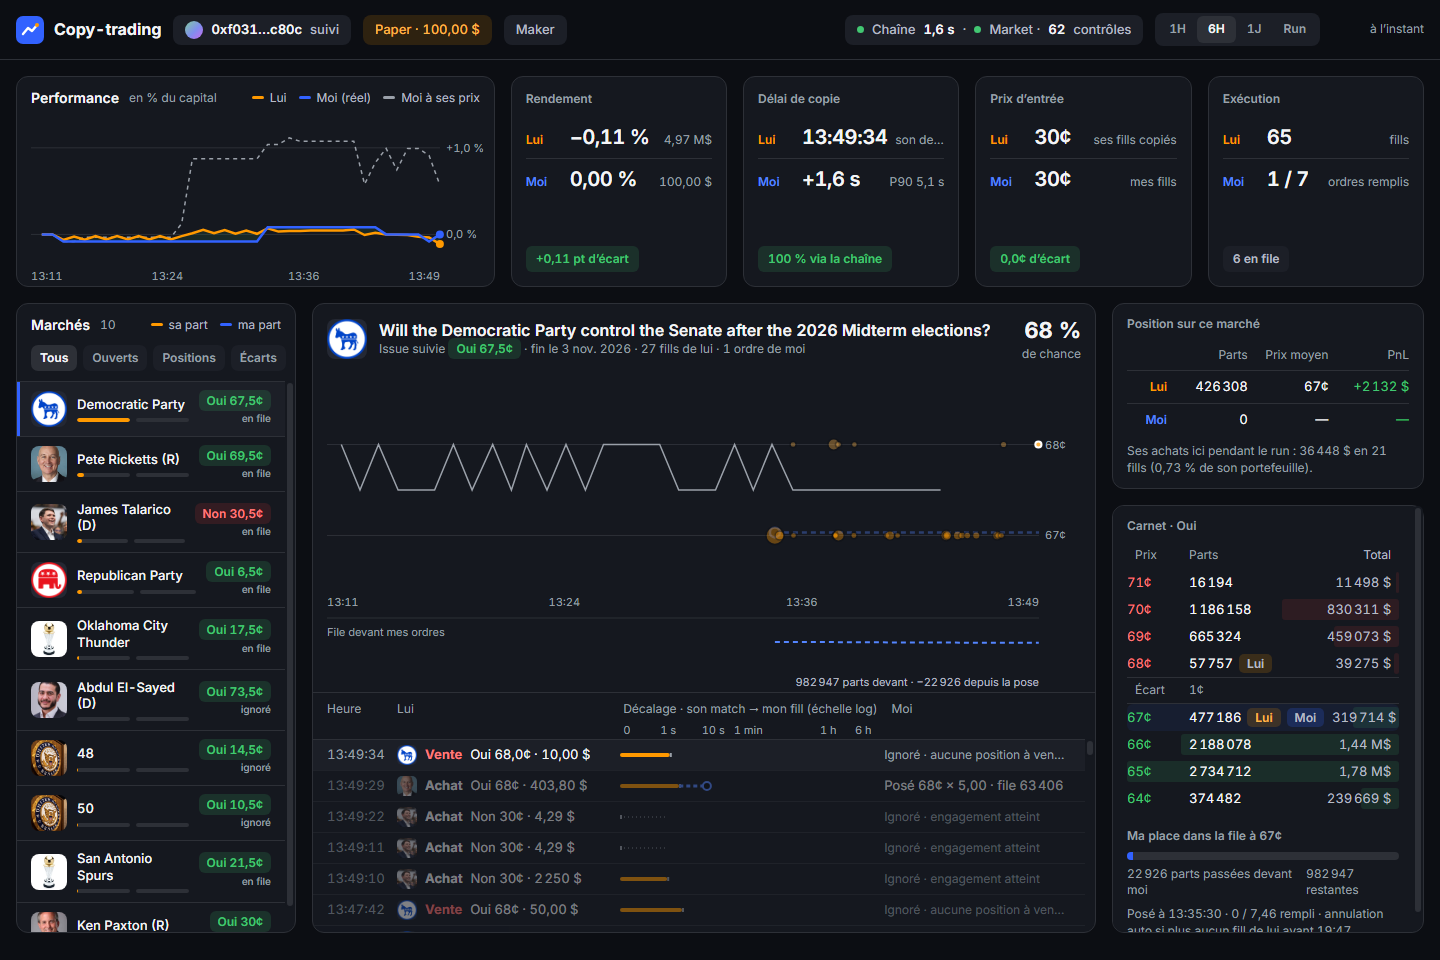
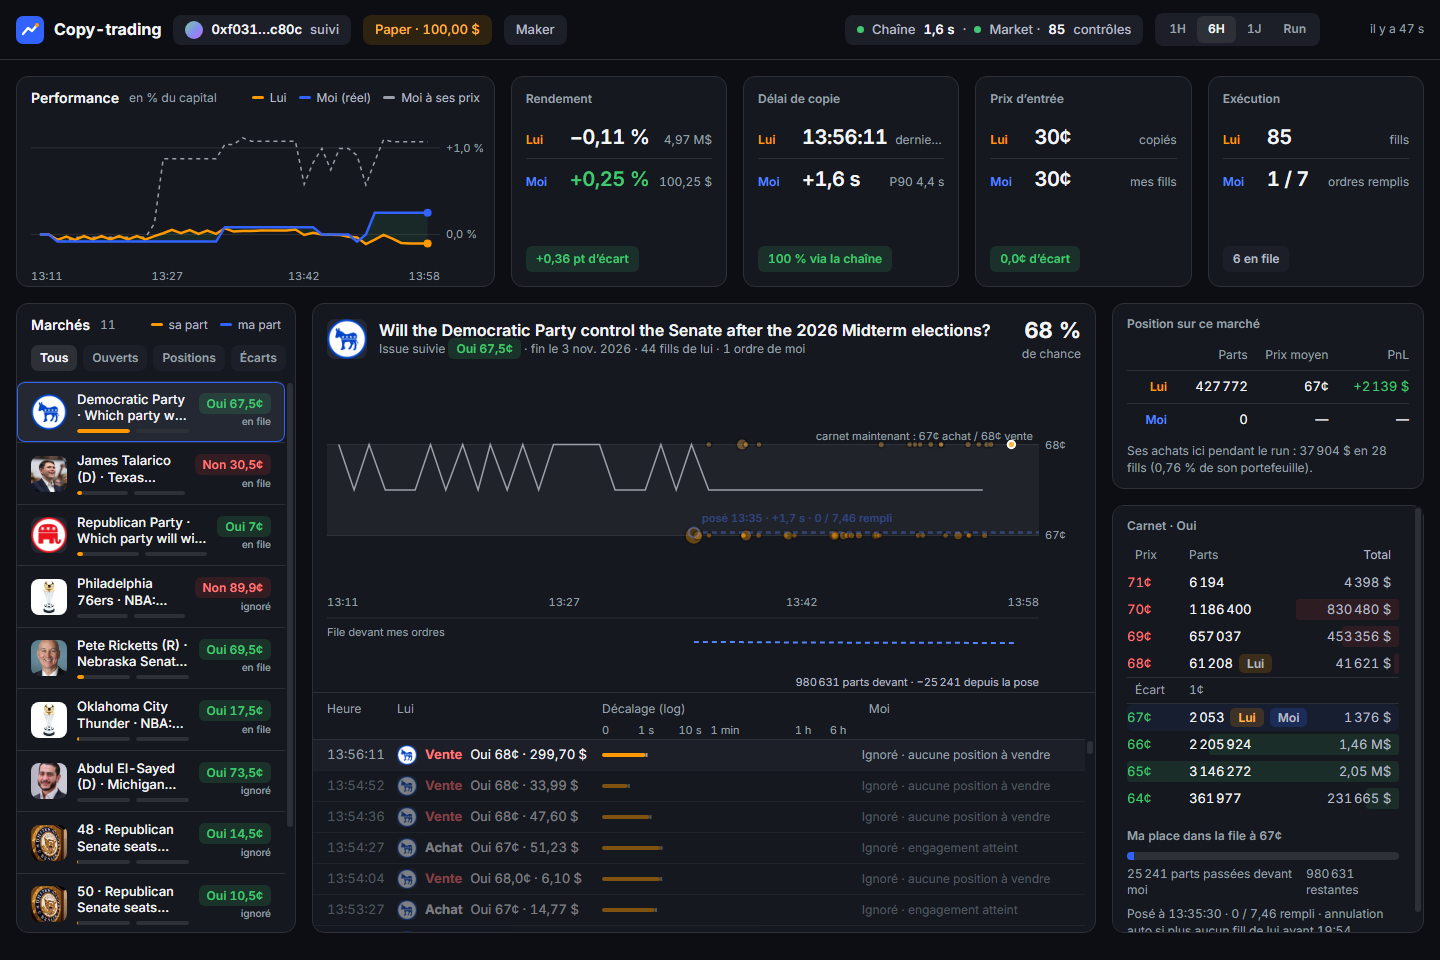
copy-trading : UI, correctifs de la revue (rendu à la minute et suspendu pendant un clic, focus clavier, fills taker, bande du carnet, annotation de l'ordre, titres d'événement, données périmées, sélection, colonnes)

diff --git a/copy-trading/ui/app.js b/copy-trading/ui/app.js
@@ -39,13 +39,16 @@ function put(id, html) { if (last.get(id) !== html) { last.set(id, html); $(id).
 
 function render() {
   queued = false;
-  const t = now(), from = windowStart(M, UI.range, t);
+  // un clic en cours ne doit pas voir sa cible remplacée : on attend le relâchement
+  if (UI.pressing) return;
+  // les échelles avancent à la minute : un panneau n'est redessiné que si ses données changent
+  const live = now(), t = Math.ceil(live / 60e3) * 60e3, from = windowStart(M, UI.range, t);
   const mks = markets(M);
   if (!UI.pinned || !mks.some((k) => k.token === UI.token)) {
     // sans choix de l'opérateur, on suit le dernier marché où j'ai un ordre, sinon son dernier trade
     UI.token = (mks.find((k) => k.orders.length) || mks[0])?.token ?? null;
   }
-  nav(t);
+  nav(live);
   perf(from, t);
   topTiles(from, t);
   list(mks);
@@ -65,11 +68,13 @@ function nav(t) {
     : M.trades.some((x) => x.orderId != null) ? 'Maker' : M.trades.some((x) => x.fillShares != null) ? 'Taker' : 'Stratégie —';
   const fd = (name, label) => {
     const f = M.feed[name];
-    const cls = !f ? 'off' : f.health === 'Valid' ? '' : 'bad';
+    const cls = !f || stale ? 'off' : f.health === 'Valid' ? '' : 'bad';
     return `<span class="dot ${cls}" title="${esc(f ? f.health : 'aucune nouvelle')}"></span>${label}`;
   };
   const lat = tiles(M, windowStart(M, '1h', t)).delayMed;
   const age = M.last ? Math.max(0, Math.round((Date.now() - M.last) / 1000)) : null;
+  // plus de 2 min sans ligne de journal (le bot en écrit une par minute) : la santé affichée n'est plus actuelle
+  const stale = age != null && age > 120;
   const connBad = UI.conn !== 'ok';
   put('nav', `
     <div class="logo"><svg width="28" height="28" viewBox="0 0 28 28" aria-hidden="true"><rect width="28" height="28" rx="7" fill="#3262FF"/><path d="M7 18 L12 12 L16 15 L21 9" fill="none" stroke="#fff" stroke-width="2.4" stroke-linecap="round" stroke-linejoin="round"/><circle cx="21" cy="9" r="2" fill="#FF9900"/></svg>Copy-trading</div>
@@ -81,7 +86,7 @@ function nav(t) {
     ${M.halt ? `<span class="chip alert" title="${esc(M.halt.reason)}">Bot arrêté</span>` : ''}
     <span class="chip">${fd('chain', 'Chaîne')} <b>${lat == null ? '' : dur(lat)}</b> · ${fd('market', 'Market')} · <b>${M.checks.ok}</b> contrôles${M.checks.bad ? ` · <span class="dn">${M.checks.bad} écarts</span>` : ''}${M.resyncs ? ` · ${M.resyncs} resync` : ''}</span>
     <div class="tabs" role="group" aria-label="Période">${['1h', '6h', '1j', 'run'].map((k) => `<button data-range="${k}" aria-pressed="${UI.range === k}">${k === 'run' ? 'Run' : k.toUpperCase()}</button>`).join('')}</div>
-    <span class="clock">${age == null ? 'en attente' : age < 2 ? 'à l’instant' : `il y a ${dur(age)}`}</span>`);
+    ${stale ? `<span class="chip alert"><span class="dot bad"></span>Journal muet depuis ${dur(age)}</span>` : `<span class="clock">${age == null ? 'en attente' : age < 2 ? 'à l’instant' : `il y a ${dur(age)}`}</span>`}`);
 }
 
 // ---- performance ---------------------------------------------------------------------------------------------------
@@ -129,10 +134,10 @@ function topTiles(from) {
   const d = k.hisPct != null && k.myPct != null ? k.myPct - k.hisPct : null;
   tile('t-ret', 'Rendement', [pct(k.hisPct), usd(k.hisValue)], [pct(k.myPct), usd(k.myValue), k.myPct < 0 ? 'dn' : k.myPct > 0 ? 'up' : ''],
     d == null ? null : [`${sgn(d, (v) => N2.format(v))} pt d’écart`, d < 0 ? 'bad' : 'good']);
-  tile('t-delay', 'Délai de copie', [k.lastMatch ? hms(k.lastMatch) : null, 'son dernier match'], [k.delayMed == null ? null : `+${dur(k.delayMed)}`, k.delayP90 == null ? '' : `P90 ${dur(k.delayP90)}`],
+  tile('t-delay', 'Délai de copie', [k.lastMatch ? hms(k.lastMatch) : null, 'dernier match'], [k.delayMed == null ? null : `+${dur(k.delayMed)}`, k.delayP90 == null ? '' : `P90 ${dur(k.delayP90)}`],
     k.apiShare == null ? null : k.apiShare > 0 ? [`${N0.format(k.apiShare * 100)} % via secours API`, 'bad'] : ['100 % via la chaîne', 'good']);
   const dp = k.hisPrice != null ? (k.myPrice - k.hisPrice) * 100 : null;
-  tile('t-price', 'Prix d’entrée', [k.hisPrice == null ? null : cents(k.hisPrice), 'ses fills copiés'], [k.myPrice == null ? null : cents(k.myPrice), 'mes fills'],
+  tile('t-price', 'Prix d’entrée', [k.hisPrice == null ? null : cents(k.hisPrice), 'copiés'], [k.myPrice == null ? null : cents(k.myPrice), 'mes fills'],
     dp == null ? null : [`${sgn(dp, (v) => N1.format(v))}¢ d’écart`, dp > 0.05 ? 'bad' : 'good']);
   tile('t-exec', 'Exécution', [N0.format(k.hisFills), 'fills'], [`${k.filled} / ${k.posted}`, 'ordres remplis'],
     [`${k.open} en file${k.wrong ? ` · ${k.wrong} annulé${k.wrong > 1 ? 's' : ''} à tort` : ''}`, k.wrong ? 'bad' : 'neu']);
@@ -165,7 +170,7 @@ function list(mks) {
     const meta = EXT.meta.get(k.token);
     const hw = (hisPos(k.token) / (hisVal || 1)) / maxHis * 100, mw = (k.myValue / cap) / maxMe * 100;
     const bad = k.state.includes('tort');
-    return `<button class="mk" role="option" data-token="${esc(k.token)}" aria-current="${k.token === UI.token}">
+    return `<button class="mk" role="option" data-token="${esc(k.token)}" aria-selected="${k.token === UI.token}">
       ${icon(k.token)}
       <div style="min-width:0"><div class="q">${esc(meta?.title || `Marché ${k.token.slice(0, 6)}…${k.token.slice(-4)}`)}</div>
         <div class="bars" title="Sa part de son portefeuille / ma part du mien"><div class="bar"><b style="width:${hw.toFixed(1)}%;background:var(--him)"></b></div><div class="bar"><b style="width:${mw.toFixed(1)}%;background:var(--me)"></b></div></div></div>
@@ -200,6 +205,11 @@ function marketChart(from, t) {
   const top = 16, ph = 200, Y = (p) => top + (hi - p * 100) / (hi - lo) * ph;
   const grid = niceTicks(lo, hi, 4).map((v) => `<line x1="14" x2="${w - 56}" y1="${Y(v / 100)}" y2="${Y(v / 100)}" stroke="#2D3037"/><text x="${w - 50}" y="${Y(v / 100) + 4}" font-size="11" fill="#9AA0A9">${cents(v / 100)}</text>`).join('');
   const hl = hist.length > 1 ? `<polyline fill="none" stroke="#9AA0A9" stroke-width="1.5" points="${hist.map((p) => `${X(p.t * 1000).toFixed(1)},${Y(p.p).toFixed(1)}`).join(' ')}"/>` : '';
+  const bk = EXT.bookToken === tok && EXT.book && !EXT.book.error ? EXT.book : null;
+  const bestBid = bk ? Math.max(...(bk.bids || []).map((l) => +l.price)) : null, bestAsk = bk ? Math.min(...(bk.asks || []).map((l) => +l.price)) : null;
+  const band = bestBid > 0 && bestAsk < 1 && bestAsk > bestBid && bestAsk * 100 <= hi && bestBid * 100 >= lo
+    ? `<rect x="14" y="${Y(bestAsk)}" width="${w - 70}" height="${Y(bestBid) - Y(bestAsk)}" fill="rgba(255,255,255,.05)"/><text x="${w - 62}" y="${Y(bestAsk) - 5}" font-size="11" fill="#9AA0A9" text-anchor="end">carnet maintenant : ${cents(bestBid)} achat / ${cents(bestAsk)} vente</text>` : '';
+  const lastOrd = orders.at(-1);
   const ord = orders.map((o) => {
     const x0 = X(Math.max(o.posted, from)), x1 = X(o.end ?? t), y = Y(o.price) - 3;
     const open = o.status === 'open', cancel = o.status === 'cancel';
@@ -209,10 +219,13 @@ function marketChart(from, t) {
     const delay = trig?.lat?.src != null ? ` · +${dur((o.posted - trig.lat.src) / 1000)}` : '';
     return `<g${o.tx ? ` data-tx="${esc(o.tx)}"` : ''} class="pt"><line x1="${x0}" x2="${x1}" y1="${y}" y2="${y}" stroke="#5485FF" stroke-width="${open ? 2.5 : 3}" ${open || cancel ? 'stroke-dasharray="5 4"' : ''} opacity="${cancel ? 0.55 : 1}"/>
       ${o.posted >= from ? `<circle cx="${x0}" cy="${y}" r="5" fill="#0C0E13" stroke="#5485FF" stroke-width="2.5"/>` : ''}${fl}${endMark}
+      ${o === lastOrd ? `<text x="${Math.min(x0 + 8, w - 230)}" y="${y - 10}" font-size="11" font-weight="600" fill="#5485FF">${o.posted >= from ? `posé ${hm(o.posted)}${delay}` : 'mon ordre'} · ${shares(o.filled)} / ${shares(o.size)} rempli</text>` : ''}
       <title>Mon ordre ${o.buy ? 'd’achat' : 'de vente'} ${cents(o.price)} × ${shares(o.size)} · posé ${hms(o.posted)}${delay} · ${o.status === 'filled' ? 'rempli' : cancel ? `annulé (${o.cause || ''})${o.wrong ? ' à tort' : ''}` : `${shares(o.filled)} rempli, ${shares(o.ahead)} devant`}</title></g>`;
   }).join('');
   const maxUsd = Math.max(1, ...fills.map((f) => f.usd || 0));
   const dots = fills.map((f) => `<circle class="pt" data-tx="${esc(f.tx)}" cx="${X(f.at).toFixed(1)}" cy="${Y(f.price).toFixed(1)}" r="${(3 + 6 * Math.sqrt((f.usd || 0) / maxUsd)).toFixed(1)}" fill="${f.buy ? '#FF9900' : '#FFB547'}" stroke="#0C0E13" stroke-width="1.5"><title>Lui : ${f.buy ? 'achat' : 'vente'} ${cents(f.price)} · ${usd(f.usd)} · ${hms(f.at)}</title></circle>`).join('');
+  // mes copies prises sur le carnet (taker) : points bleus, comme mes fills d'ordres posés
+  const taken = fills.filter((f) => f.fillShares > 0 && f.orderId == null).map((f) => `<circle class="pt" data-tx="${esc(f.tx)}" cx="${X(f.at).toFixed(1)}" cy="${Y(f.fillUsd / f.fillShares).toFixed(1)}" r="5" fill="#3262FF" stroke="#0C0E13" stroke-width="1.5"><title>Mon fill ${shares(f.fillShares)} à ${cents(f.fillUsd / f.fillShares)} · ${hms(f.at)}</title></circle>`).join('');
   // la file devant mes ordres, relevée chaque minute
   const qs = orders.filter((o) => o.aheadSeries.length);
   const qmax = Math.max(1, ...qs.flatMap((o) => o.aheadSeries.map((a) => a[1])));
@@ -221,7 +234,7 @@ function marketChart(from, t) {
   const openO = qs.filter((o) => o.status === 'open').at(-1);
   const qlabel = openO ? `<text x="${w - 56}" y="312" font-size="11" fill="#B6BBC4" text-anchor="end">${shares(openO.ahead)} parts devant · −${shares(Math.max(0, (openO.ahead0 ?? 0) - (openO.ahead ?? 0)))} depuis la pose</text>` : '';
   const times = [0, 1, 2, 3].map((i) => from + (t - from) * i / 3).map((x, i) => `<text x="${X(x)}" y="${top + ph + 16}" font-size="11" fill="#9AA0A9" text-anchor="${i === 0 ? 'start' : i === 3 ? 'end' : 'middle'}">${hm(x)}</text>`).join('');
-  put('mchart', `<svg class="chart" width="${w}" height="${h}" role="img" aria-label="Prix du marché, ses fills et mes ordres">${grid}${hl}${ord}${dots}${times}
+  put('mchart', `<svg class="chart" width="${w}" height="${h}" role="img" aria-label="Prix du marché, ses fills et mes ordres">${grid}${band}${hl}${dots}${ord}${taken}${times}
     <line x1="14" x2="${w - 56}" y1="${top + ph + 28}" y2="${top + ph + 28}" stroke="#2D3037"/><text x="14" y="${top + ph + 46}" font-size="11" fill="#9AA0A9">File devant mes ordres</text>${qs.length ? queue : `<text x="14" y="${top + ph + 64}" font-size="11" fill="#9AA0A9">aucun ordre posé ici</text>`}${qlabel}</svg>`);
 }
 
@@ -244,11 +257,11 @@ function myText(t, c) {
 }
 function waterfall(from, t) {
   const wb = $('wbody');
-  // largeur de la colonne « décalage » : la grille de .wr (70 px | 30 % | reste | 27 %) moins le rembourrage
+  // largeur de la colonne « décalage » : la grille de .wr (70 px | 27 % | reste | 30 %) moins le rembourrage
   const inner = wb.clientWidth - 28;
-  const W = Math.max(160, inner - 70 - Math.max(180, inner * 0.3) - Math.max(170, inner * 0.27) - 10);
+  const W = Math.max(160, inner - 70 - Math.max(205, inner * 0.27) - Math.max(210, inner * 0.3) - 10);
   const ticks = [[0.1, '0'], [1, '1 s'], [10, '10 s'], [60, '1 min'], [3600, '1 h'], [21600, '6 h']];
-  put('whead', `<span>Heure</span><span>Lui</span><span>Décalage · son match → mon fill <span class="small">(échelle log)</span><div class="axis">${ticks.map(([s, l]) => `<span style="left:${logX(s, W).toFixed(0)}px">${l}</span>`).join('')}</div></span><span style="padding-left:14px">Moi</span>`);
+  put('whead', `<span>Heure</span><span>Lui</span><span title="Échelle logarithmique : son match → ma détection → mon ordre → mon fill">Décalage <span class="small">(log)</span><div class="axis">${ticks.map(([s, l]) => `<span style="left:${logX(s, W).toFixed(0)}px">${l}</span>`).join('')}</div></span><span style="padding-left:14px">Moi</span>`);
   const rows = M.trades.filter((x) => x.at >= from).slice(-80).reverse();
   if (!rows.length) return put('wbody', `<div class="empty">Aucun trade de lui sur la période. ${UI.range !== 'run' ? 'Élargis à <b>Run</b> pour tout voir.' : ''}</div>`);
   put('wbody', rows.map((x) => {
@@ -287,8 +300,8 @@ function side(t) {
   const hisSum = (k) => { const b = M.trades.filter((x) => x.token === k && x.buy); const v = b.reduce((a, x) => a + (x.usd || 0), 0); const hv = M.states.at(-1)?.his; return b.length ? `Ses achats ici pendant le run : ${usd(v)} en ${b.length} fills${hv ? ` (${N2.format(v / hv * 100)} % de son portefeuille)` : ''}.` : 'Pas d’achat de lui ici pendant le run.'; };
   put('cmp', `<h3>Position sur ce marché</h3>
     <div class="cr" style="border-top:0;color:var(--t3);font-size:12px"><span></span><span>Parts</span><span>Prix moyen</span><span>PnL</span></div>
-    <div class="cr"><span class="who h">Lui</span><span>${his ? shares(his.size) : loading()}</span><span>${his ? cents(his.avgPrice) : loading()}</span><span class="${his?.cashPnl < 0 ? 'dn' : 'up'}">${his ? sgn(his.cashPnl, usd) : loading()}</span></div>
-    <div class="cr"><span class="who m">Moi</span><span>${shares(me.shares)}</span><span>${cents(me.avg)}</span><span class="${meVal < 0 ? 'dn' : 'up'}">${meVal == null ? '—' : sgn(meVal, usd)}</span></div>
+    <div class="cr"><span class="who h">Lui</span><span>${his ? shares(his.size) : loading()}</span><span>${his ? cents(his.avgPrice) : loading()}</span><span class="${!his ? '' : his.cashPnl < 0 ? 'dn' : his.cashPnl > 0 ? 'up' : ''}">${his ? sgn(his.cashPnl, usd) : loading()}</span></div>
+    <div class="cr"><span class="who m">Moi</span><span>${shares(me.shares)}</span><span>${cents(me.avg)}</span><span class="${meVal < -0.005 ? 'dn' : meVal > 0.005 ? 'up' : ''}">${meVal == null ? '—' : sgn(meVal, usd)}</span></div>
     <div class="small" style="margin-top:8px">${hisSum(tok)}${his && me.avg != null && his.avgPrice ? ` Écart de prix moyen : ${sgn((me.avg - his.avgPrice) * 100, (v) => N1.format(v))}¢.` : ''}</div>`);
   const b = EXT.bookToken === tok ? EXT.book : null;
   const mine = [...M.orders.values()].filter((o) => o.token === tok && o.status === 'open');
@@ -335,6 +348,10 @@ function hoverFrom(el) {
   const token = el?.closest('[data-token]')?.dataset.token || (tx ? M.trades.find((x) => x.tx === tx)?.token : null) || null;
   return tx || token ? { tx, token } : null;
 }
+document.addEventListener('pointerdown', () => { UI.pressing = true; });
+document.addEventListener('pointerup', () => { UI.pressing = false; setTimeout(invalidate, 0); });
+document.addEventListener('focusin', (e) => { const h = hoverFrom(e.target); UI.hover = h; applyHover(); });
+document.addEventListener('focusout', () => { UI.hover = null; applyHover(); });
 document.addEventListener('mouseover', (e) => {
   const h = hoverFrom(e.target);
   if (JSON.stringify(h) !== JSON.stringify(UI.hover)) { UI.hover = h; applyHover(); }

diff --git a/copy-trading/ui/app.css b/copy-trading/ui/app.css
@@ -54,7 +54,7 @@ a.chip:hover{background:var(--s3)}
 .rows{overflow-y:auto;flex:1}
 .mk{display:grid;grid-template-columns:36px minmax(0,1fr) auto;gap:10px;padding:9px 14px;border-top:1px solid var(--ln);align-items:center;width:100%;transition:background .15s}
 .mk:hover,.mk.hl{background:var(--s2)}
-.mk[aria-current=true]{background:var(--s2);box-shadow:inset 3px 0 0 var(--me)}
+.mk[aria-selected=true]{background:var(--s3);box-shadow:inset 0 0 0 1px var(--me);border-radius:8px}
 .ic{width:36px;height:36px;border-radius:8px;object-fit:cover;background:var(--s3);display:grid;place-items:center;font-weight:700;color:var(--t2);font-size:12px}
 .q{font-weight:500;line-height:1.25;display:-webkit-box;-webkit-line-clamp:2;-webkit-box-orient:vertical;overflow:hidden}
 .bars{display:grid;grid-template-columns:1fr 1fr;gap:6px;margin-top:6px}
@@ -71,7 +71,7 @@ a.chip:hover{background:var(--s3)}
 .empty{padding:28px 18px;color:var(--t3);line-height:1.5}
 .empty b{color:var(--t1);font-weight:600}
 .wf{border-top:1px solid var(--ln);flex:1;display:flex;flex-direction:column;min-height:0}
-.wr{display:grid;grid-template-columns:70px minmax(180px,30%) minmax(220px,1fr) minmax(170px,27%);align-items:center;min-height:31px;padding:0 14px;border-top:1px solid var(--ln);width:100%;transition:background .15s,opacity .15s}
+.wr{display:grid;grid-template-columns:70px minmax(205px,27%) minmax(200px,1fr) minmax(210px,30%);align-items:center;min-height:31px;padding:0 14px;border-top:1px solid var(--ln);width:100%;transition:background .15s,opacity .15s}
 .wh{border-top:0;color:var(--t3);font-size:12px;min-height:46px;align-items:start;padding-top:8px}
 .wbody{overflow-y:auto;flex:1}
 .wr .t{color:var(--t3)}

diff --git a/copy-trading/ui/model.js b/copy-trading/ui/model.js
@@ -227,5 +227,7 @@ export function myPosition(m, token) {
   }
   for (const t of m.trades) if (t.token === token && t.buy && !t.orderId && t.fillShares > 0) { sh += t.fillShares; usd += t.fillUsd; }
   const st = m.states.at(-1);
-  return { shares: num(st?.pos?.[token]) ?? sh, avg: sh ? usd / sh : null, mark: num(st?.marks?.[token]) };
+  // même repli que markets() : sans prix relevé, le dernier prix auquel il a traité
+  const lastPrice = [...m.trades].reverse().find((t) => t.token === token && t.price != null)?.price ?? null;
+  return { shares: num(st?.pos?.[token]) ?? sh, avg: sh ? usd / sh : null, mark: num(st?.marks?.[token]) ?? lastPrice };
 }

diff --git a/copy-trading/ui/serve.py b/copy-trading/ui/serve.py
@@ -157,7 +157,11 @@ def market_meta(rows, token):
     m = rows[0]
     ids, outs = json.loads(m.get("clobTokenIds") or "[]"), json.loads(m.get("outcomes") or "[]")
     outcome = outs[ids.index(token)] if token in ids and len(outs) == len(ids) else None
-    return {"question": m.get("question"), "title": m.get("groupItemTitle") or m.get("question"),
+    # « 52 » ou « Democratic Party » seuls ne disent rien : on les accole au titre de l'événement
+    event = ((m.get("events") or [{}])[0] or {}).get("title")
+    group = m.get("groupItemTitle")
+    title = f"{group} · {event}" if group and event else group or m.get("question")
+    return {"question": m.get("question"), "title": title,
             "outcome": outcome, "icon": m.get("icon"), "end": m.get("endDate"), "slug": m.get("slug")}
 
 

diff --git a/copy-trading/.impeccable/surfaces/ui-index-html.md b/copy-trading/.impeccable/surfaces/ui-index-html.md
@@ -23,7 +23,7 @@ STORY : l'opérateur voit d'un coup d'œil si la copie suit (rendement, délai, 
 
 FIRST VIEWPORT : barre (wallet, mode, stratégie, santé, période) ; rangée haute : performance lui/moi avec l'écart grisé, quatre tuiles lui | moi | écart ; rangée basse : liste des marchés (280 px), centre (marché sélectionné : prix, ses fills, mes ordres, file ; cascade des décalages), droite (positions comparées, carnet avec nos niveaux, ma place dans la file).
 
-FORM : maquette validée par l'utilisateur, direction épinglée (pas de tirage retenu) ; seed: none (unavailable).
+FORM : un tirage a eu lieu (concept-seed, clé 59452a13 ; sa sortie n'a imprimé aucune ligne SEED REFERENCE) et sa donne (`.impeccable/mocks/decision/`) a été rejetée par l'utilisateur, qui a ensuite épinglé la direction (identité Polymarket, fusion lui/moi, graphique des décalages) ; maquette validée `.impeccable/mocks/fusion.html`. seed: none (unavailable)
 
 Signature : la cascade des décalages (échelle log 0 → 6 h, segments son match → ma détection → mon ordre → mon fill) liée par survol et clic au graphique de prix et à la liste.
 
